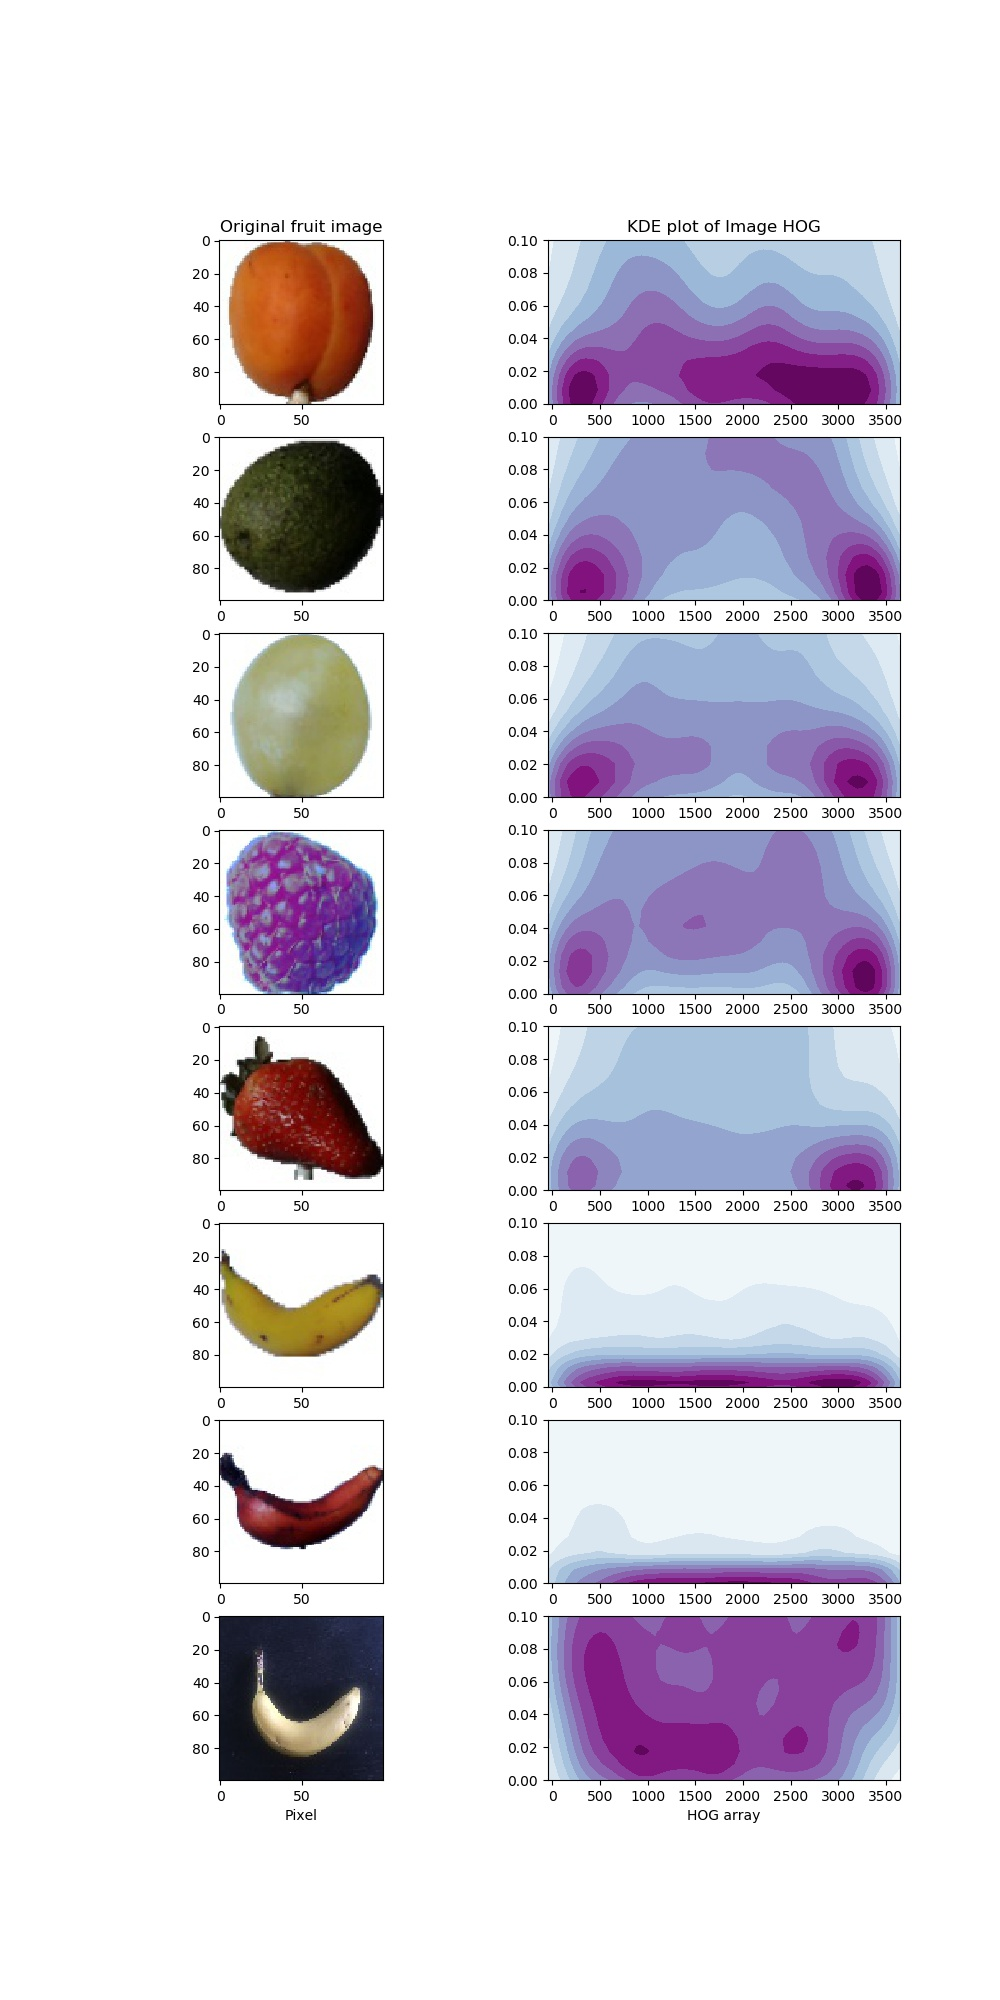
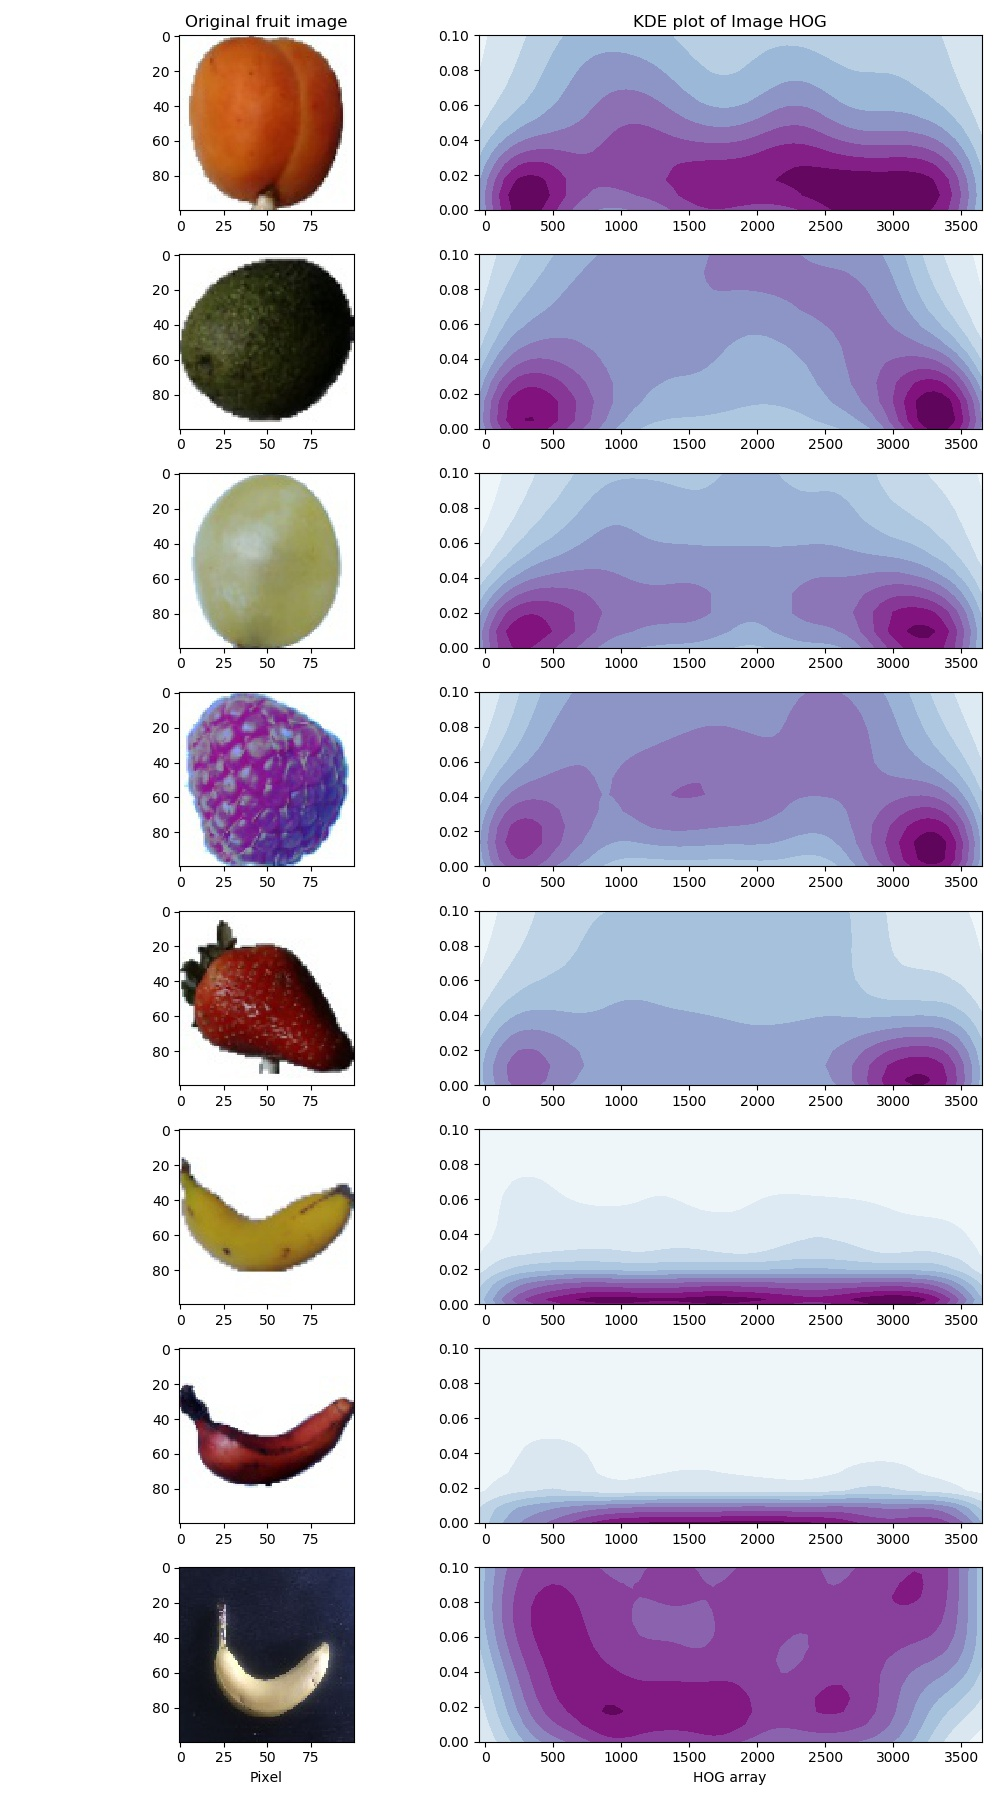
image correction

diff --git a/_posts/2018-05-02-IRCHOGSVM.md b/_posts/2018-05-02-IRCHOGSVM.md
@@ -154,7 +154,7 @@ image_list = [t1, t2, t3, t4, t5, t6, t7, t8]
 
 
 #designing basic framework of chart plot
-fig, axes = plt.subplots(nrows=len(image_list),ncols=2, figsize = (10,20))
+fig, axes = plt.subplots(nrows=len(image_list),ncols=2, figsize = (10,18))
 
 #reiterating through each image
 for i, fruit in zip(range(len(image_list)), image_list):
@@ -179,6 +179,8 @@ axes[0][0].set_title("Original fruit image")
 axes[len(image_list)-1][0].set_xlabel("Pixel")
 axes[0][1].set_title("KDE plot of Image HOG")
 axes[len(image_list)-1][1].set_xlabel("HOG array")
+
+plt.tight_layout()
 
 fig.savefig("KDE_HOG.jpg")
 ```
@@ -217,7 +219,7 @@ t8 = (cv2.imread("t8.jpg"))
 image_list = [t1, t2, t3, t4, t5, t6, t7, t8]
 
 #designing basic framework of chart plot
-fig, axes = plt.subplots(nrows=len(image_list),ncols=2, figsize = (10,20))
+fig, axes = plt.subplots(nrows=len(image_list),ncols=2, figsize = (10,18))
 
 #reiterating through each image
 for i, fruit in zip(range(len(image_list)), image_list):
@@ -247,6 +249,8 @@ axes[0][0].set_title("Original fruit image")
 axes[len(image_list)-1][0].set_xlabel("Pixel")
 axes[0][1].set_title("Visualization of HOG")
 axes[len(image_list)-1][1].set_xlabel("HOG array")
+
+plt.tight_layout()
 
 fig.savefig("Visualize_HOG.jpg")
 ```
